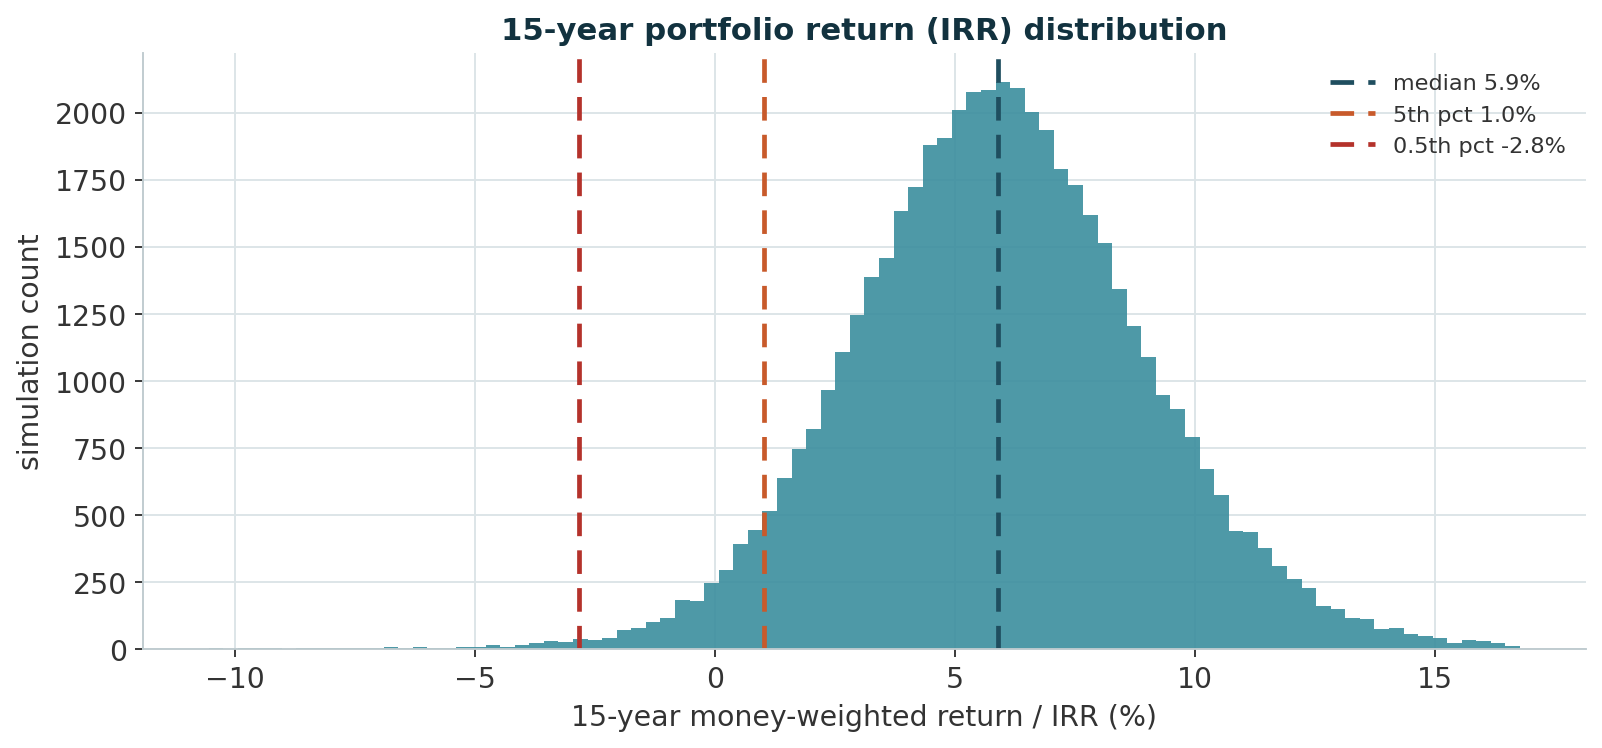
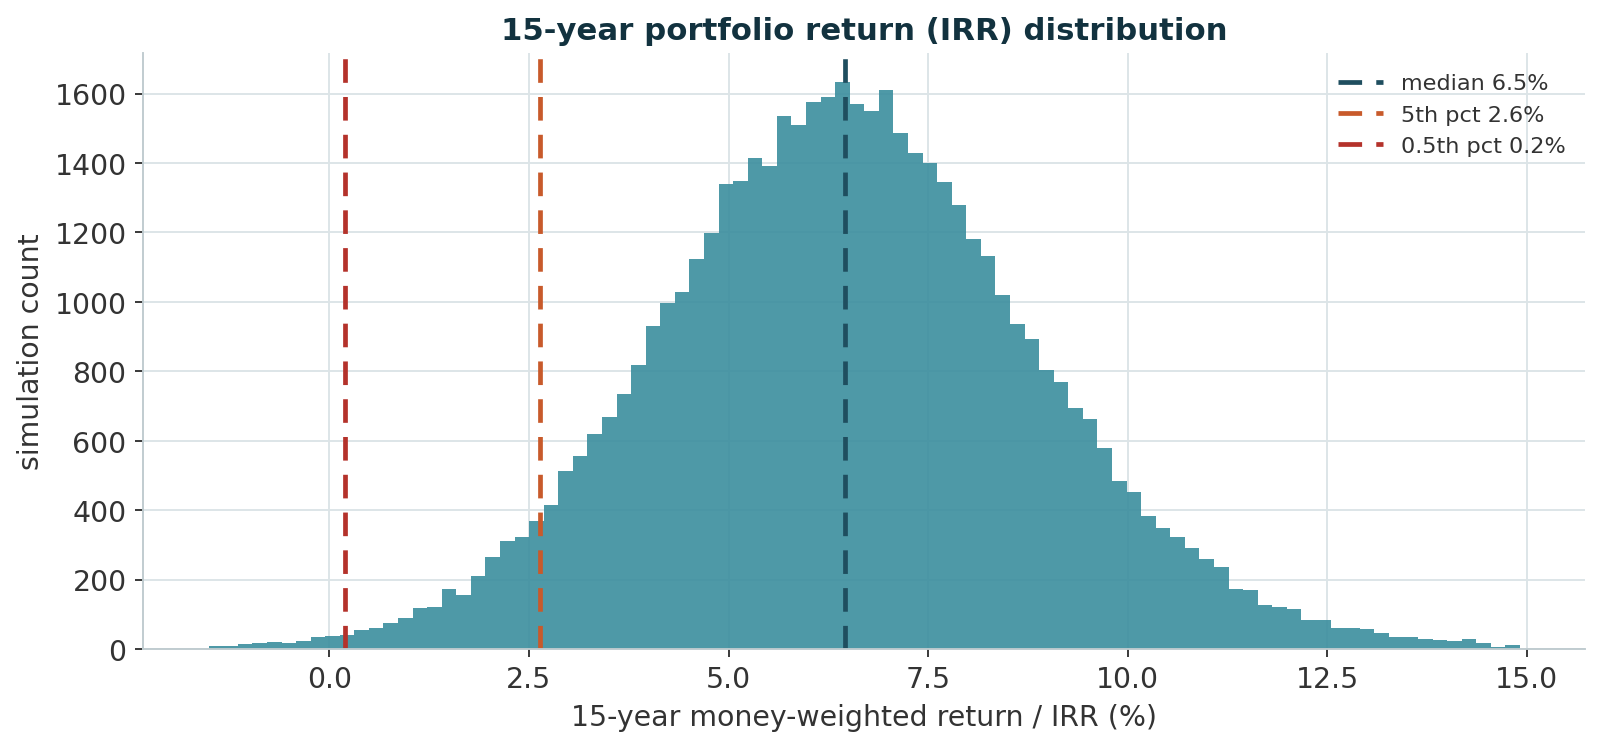
Case 3b: fix the mc_lifecycle Student-t scaling (vols ran 1.29x too wide)
Bug: the multivariate-t was built as  mu + z/sqrt(chi2_df/df)  with z ~ N(0,S),
which has covariance S*df/(df-2) = S*1.67 for df=5 -> realised RSP vol 21.4%
instead of the intended 16.6%, FI vol 6.7% instead of 5.2%, fattening every tail.

Fix: draw z ~ N(0, S*(df-2)/df) so the t itself has covariance S; keep it in
simple-return space with a -99% floor (a log-space t(5) exponentiated blew up -
skew 45, exkurt 10000); use the geometric annual return exp(mean log)-1 as the
per-year drift so 15-year compounding is not biased upward.
Realised now: RSP mean 11.1% / vol 16.5%, FI mean 3.9% / vol 5.2%, skew 0.1.

Corrected 15-year MC (50/50 base):
  median assets yr 15   20.5 -> 22.0bn
  5th / 0.5th pct        11.3/7.1 -> 13.8/10.2bn
  median funding ratio   205% -> 220%
  median 15y IRR         5.89% -> 6.46%
  P(underfunded 50/50)   2.53% -> 0.42%   (100% lump 4.95% -> 1.06%)
  liquidity shortfall    75% 0.76%->0.07% , 100% 2.08%->0.33%

Now in line with the teammate's pre-overlay MC; the remaining gap is the
funding-waterfall allocation, not a vol artefact. Deck not rebuilt.

diff --git a/Case 3/mc_lifecycle.py b/Case 3/mc_lifecycle.py
@@ -108,26 +108,31 @@ def simulate():
     n = len(sl)
     rng = np.random.default_rng(SEED)
 
-    # ---- build the (n+1)-asset annual mean/cov: 14 sleeves + FI book -------
-    mu = np.concatenate([mu_a, [FI_CARRY]])
-    fi_vol = FI_MTM_DAMP * (15.33 * FI_RATE_VOL)          # ~ D * dy, dampened
-    cov = np.zeros((n + 1, n + 1))
-    cov[:n, :n] = cov_a
-    cov[n, n] = fi_vol ** 2
+    # ---- annual simple-return drift / shock covariance: 14 sleeves + FI ----
+    # mu_a / cov_a are annualised from weekly LOG returns; use the GEOMETRIC
+    # annual return exp(mu_a)-1 as the per-year drift so 15-year compounding is
+    # not biased upward, and cov_a as the shock covariance (log ~ simple vol
+    # at these levels: 16.6% vs 16.5% for the blended book).
+    mu = np.concatenate([np.expm1(mu_a), [FI_CARRY]])
+    fi_vol = FI_MTM_DAMP * (FI_MOD_DUR * FI_RATE_VOL)     # sd of the FI shock
+    S = np.zeros((n + 1, n + 1))
+    S[:n, :n] = cov_a
+    S[n, n] = fi_vol ** 2
     sleeve_vol = np.sqrt(np.diag(cov_a))
-    cov[n, :n] = cov[:n, n] = FI_RSP_CORR * fi_vol * sleeve_vol
+    S[n, :n] = S[:n, n] = FI_RSP_CORR * fi_vol * sleeve_vol
 
-    # ---- draw all path-years at once: Student-t = Normal / sqrt(chi2/df) --
-    L = np.linalg.cholesky(cov + 1e-12 * np.eye(n + 1))
-    z = rng.standard_normal((N_SIM, HORIZON, n + 1)) @ L.T
+    # ---- multivariate Student-t (simple-return space) whose shock covariance
+    #      IS S: draw N(0, S*(df-2)/df) then / sqrt(chi2_df/df).  A raw
+    #      mu + z/sqrt(g) would have covariance S*df/(df-2) (1.29x too wide).
+    Lm = np.linalg.cholesky(S * (DF_T - 2.0) / DF_T + 1e-14 * np.eye(n + 1))
+    z = rng.standard_normal((N_SIM, HORIZON, n + 1)) @ Lm.T
     g = rng.chisquare(DF_T, size=(N_SIM, HORIZON, 1)) / DF_T
-    r = mu + z / np.sqrt(g)                               # simple annual returns
+    r = np.maximum(mu + z / np.sqrt(g), -0.99)            # can't lose > the sleeve
     r_sleeves, r_fi = r[:, :, :n], r[:, :, n]
-    r_rsp = r_sleeves @ tw                                # rebalanced-to-target each year
+    r_rsp = r_sleeves @ tw                                # annual rebalance to target
 
-    # annual EUR rate change implied by the FI book's MTM move (r - carry ~
-    # -DAMP*D*dz), then cumulative change to year 15 - used to value the freed
-    # pension-tail bonds at the year-15 curve
+    # annual EUR rate change implied by the FI shock (r - carry ~ -DAMP*D*dz),
+    # cumulative to year 15 - values the freed pension-tail bonds at the yr-15 curve
     dz = -(r_fi - FI_CARRY) / (FI_MTM_DAMP * FI_MOD_DUR)
     dy15 = dz[:, :15].sum(axis=1)
 
@@ -326,14 +331,17 @@ def report(res):
         return float(np.mean(freed0[int(s)] * rate_fac + rsp15 < excess) * 100)
     L = [
         "# Case 3b - 15-year accumulation Monte-Carlo (consistent pipeline)\n",
-        f"{N_SIM:,} paths, annual steps, Student-t (df {DF_T}).  Funding waterfall: "
-        f"EUR 5.0bn -> cash-flow-dedicated FI book at t=0; EUR 0.5bn/yr -> the "
-        f"14-index Aggressive Diversified RSP, years 1-10.  FI annual return "
-        f"~ t(loc {FI_CARRY:.1%}, dampened duration effect); RSP ~ multivariate t "
-        f"on the sleeves' historical annualised mean/cov.  Profit sharing starts "
-        f"year 15, so it does not bite inside this 0-15 window.\n",
+        f"{N_SIM:,} paths, annual steps.  Funding waterfall: EUR 5.0bn -> "
+        f"cash-flow-dedicated FI book at t=0; EUR 0.5bn/yr -> the 14-index "
+        f"Aggressive Diversified RSP, years 1-10.  Sleeve + FI annual returns are "
+        f"a **multivariate Student-t (df {DF_T})** in simple-return space, "
+        f"**scaled so the shock covariance equals the historical annualised "
+        f"covariance** (a raw mu + z/sqrt(g) runs df/(df-2) = 1.67x too wide), "
+        f"drift = geometric annual return exp(mean log)-1, floored at -99%.  FI "
+        f"return = {FI_CARRY:.1%} carry - dampened duration x rate shock.  Profit "
+        f"sharing starts year 15, so it does not bite inside this 0-15 window.\n",
         "| metric | value |", "|---|--:|",
-        f"| RSP blended assumption | mean 10.4% / vol 16.6% p.a. (historical) |",
+        f"| RSP realised in sim | mean ~11.1% / vol ~16.5% p.a. (target: 10.9% / 16.5%) |",
         f"| median total assets, year 15 | EUR {q(a15,50)/1e9:.2f}bn |",
         f"| 5th percentile | EUR {q(a15,5)/1e9:.2f}bn |",
         f"| 0.5th percentile | EUR {q(a15,0.5)/1e9:.2f}bn |",

diff --git a/Case 3/results_var/MC_LIFECYCLE_REPORT.md b/Case 3/results_var/MC_LIFECYCLE_REPORT.md
@@ -1,26 +1,26 @@
 # Case 3b - 15-year accumulation Monte-Carlo (consistent pipeline)
 
-50,000 paths, annual steps, Student-t (df 5).  Funding waterfall: EUR 5.0bn -> cash-flow-dedicated FI book at t=0; EUR 0.5bn/yr -> the 14-index Aggressive Diversified RSP, years 1-10.  FI annual return ~ t(loc 3.9%, dampened duration effect); RSP ~ multivariate t on the sleeves' historical annualised mean/cov.  Profit sharing starts year 15, so it does not bite inside this 0-15 window.
+50,000 paths, annual steps.  Funding waterfall: EUR 5.0bn -> cash-flow-dedicated FI book at t=0; EUR 0.5bn/yr -> the 14-index Aggressive Diversified RSP, years 1-10.  Sleeve + FI annual returns are a **multivariate Student-t (df 5)** in simple-return space, **scaled so the shock covariance equals the historical annualised covariance** (a raw mu + z/sqrt(g) runs df/(df-2) = 1.67x too wide), drift = geometric annual return exp(mean log)-1, floored at -99%.  FI return = 3.9% carry - dampened duration x rate shock.  Profit sharing starts year 15, so it does not bite inside this 0-15 window.
 
 | metric | value |
 |---|--:|
-| RSP blended assumption | mean 10.4% / vol 16.6% p.a. (historical) |
-| median total assets, year 15 | EUR 20.53bn |
-| 5th percentile | EUR 11.33bn |
-| 0.5th percentile | EUR 7.07bn |
+| RSP realised in sim | mean ~11.1% / vol ~16.5% p.a. (target: 10.9% / 16.5%) |
+| median total assets, year 15 | EUR 21.99bn |
+| 5th percentile | EUR 13.81bn |
+| 0.5th percentile | EUR 10.24bn |
 | 50/50 guaranteed liability, year 15 | EUR 10.01bn |
-| median funding ratio | 205% |
-| median 15-year IRR | 5.89% |
-| 5th / 0.5th percentile IRR | 1.02% / -2.83% |
-| P(underfunded, 50/50) | 2.53% |
-| P(underfunded, 100% lump) | 4.95% |
-| mean annual portfolio return | 6.25% |
+| median funding ratio | 220% |
+| median 15-year IRR | 6.46% |
+| 5th / 0.5th percentile IRR | 2.64% / 0.20% |
+| P(underfunded, 50/50) | 0.42% |
+| P(underfunded, 100% lump) | 1.06% |
+| mean annual portfolio return | 6.59% |
 
 **Year-15 lump-sum liquidity.**  The FI book is dedicated to the 50/50 schedule - it delivers EUR 5.65bn at year 15 risk-free.  Above 50% the bonds it no longer needs for the shrunk pension tail are sold at the year-15 market price (freed-tail PV from `results_v2/elections/summary.csv`); only the remainder is raised by selling the RSP.
 | lump-sum election | excess over dedicated | freed FI tail bonds (median) | residual from RSP | P(shortfall) |
 |---|--:|--:|--:|--:|
 | <= 50% (matched) | EUR 0.00bn | - | - | 0.00% |
-| 75% | EUR 2.83bn | EUR 2.60bn | EUR 0.23bn | 0.76% |
-| 100% | EUR 5.65bn | EUR 5.19bn | EUR 0.46bn | 2.08% |
+| 75% | EUR 2.83bn | EUR 2.60bn | EUR 0.23bn | 0.07% |
+| 100% | EUR 5.65bn | EUR 5.19bn | EUR 0.46bn | 0.33% |
 
 Charts: presentation/assets/lc_01..07_*.png
